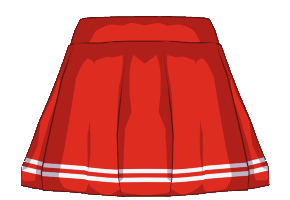
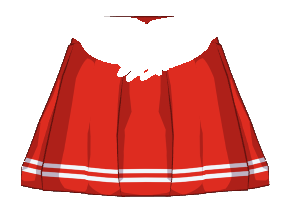
More

Changed region(s): [[0.2483, 0.06, 0.7448, 0.42]]

diff --git a/BondageClub/Assets/Female3DCG/Female3DCG.js b/BondageClub/Assets/Female3DCG/Female3DCG.js
@@ -31,29 +31,36 @@ var AssetFemale3DCG = [
 		AllowPose: ["TapedHands", "BackBoxTie", "BackCuffs", "BackElbowTouch", "Bolero", "Yoked", "Hogtied"],
 		Color: ["Default", "#202020", "#808080", "#bbbbbb", "#aa8080", "#80aa80", "#8080aa", "#aaaa80", "#80aaaa", "#aa80aa", "#cc3333", "#33cc33", "#3333cc", "#cccc33", "#33cccc", "#cc33cc"],
 		Asset: [
-			{ Name: "CollegeOutfit1", HideItem: ["ClothLowerLatexSkirt1", "ClothLowerLatexSkirt2", "ClothLowerSkirt1", "ClothLowerTennisSkirt1", "ClothLowerClothSkirt1", "ItemNipplesPiercingsRoundPiercing", "ItemNipplesPiercingsWeightedPiercing"], Hide: ["ItemNeck", "ItemBondageCloth"], Value: -1 },
-			{ Name: "MaidOutfit1", HideItem: ["ClothLowerLatexSkirt1", "ClothLowerLatexSkirt2", "ClothLowerSkirt1", "ClothLowerTennisSkirt1", "ClothLowerClothSkirt1", "ItemNipplesPiercingsRoundPiercing", "ItemNipplesPiercingsWeightedPiercing"], Hide: ["ItemBondageCloth"], Value: -1 },
-			{ Name: "MaidOutfit2", HideItem: ["ClothLowerLatexSkirt1", "ClothLowerLatexSkirt2", "ClothLowerSkirt1", "ClothLowerTennisSkirt1", "ClothLowerClothSkirt1"], Value: -1, Expose: ["ItemNipples", "ItemNipplesPiercings", "ItemBreast"], Hide: ["ItemBondageCloth"] },
-			{ Name: "StudentOutfit1", HideItem: ["ClothLowerLatexSkirt1", "ClothLowerLatexSkirt2", "ClothLowerSkirt1", "ClothLowerTennisSkirt1", "ClothLowerClothSkirt1", "ItemNipplesPiercingsRoundPiercing", "ItemNipplesPiercingsWeightedPiercing"], Hide: ["ItemNeck", "ItemBondageCloth"] },
-			{ Name: "StudentOutfit2", HideItem: ["ItemArmsLeatherCuffs", "ItemArmsOrnateCuffs", "ClothLowerLatexSkirt1", "ClothLowerLatexSkirt2", "ClothLowerSkirt1", "ClothLowerTennisSkirt1", "ClothLowerClothSkirt1", "ItemNipplesPiercingsRoundPiercing", "ItemNipplesPiercingsWeightedPiercing"], Hide: ["ItemBondageCloth"] },
+			{ Name: "CollegeOutfit1", HideItem: ["ClothLowerLatexSkirt1", "ClothLowerLatexSkirt2", "ClothLowerSkirt1", "ClothLowerSkirt2", "ClothLowerSkirt3", "ClothLowerTennisSkirt1", "ClothLowerClothSkirt1", "ItemNipplesPiercingsRoundPiercing", "ItemNipplesPiercingsWeightedPiercing"], Hide: ["ItemNeck", "ItemBondageCloth"], Value: -1 },
+			{ Name: "MaidOutfit1", HideItem: ["ClothLowerLatexSkirt1", "ClothLowerLatexSkirt2", "ClothLowerSkirt1", "ClothLowerSkirt2", "ClothLowerSkirt3", "ClothLowerTennisSkirt1", "ClothLowerClothSkirt1", "ItemNipplesPiercingsRoundPiercing", "ItemNipplesPiercingsWeightedPiercing"], Hide: ["ItemBondageCloth"], Value: -1 },
+			{ Name: "MaidOutfit2", HideItem: ["ClothLowerLatexSkirt1", "ClothLowerLatexSkirt2", "ClothLowerSkirt1", "ClothLowerSkirt2", "ClothLowerSkirt3", "ClothLowerTennisSkirt1", "ClothLowerClothSkirt1"], Value: -1, Expose: ["ItemNipples", "ItemNipplesPiercings", "ItemBreast"], Hide: ["ItemBondageCloth"] },
+			{ Name: "StudentOutfit1", HideItem: ["ClothLowerLatexSkirt1", "ClothLowerLatexSkirt2", "ClothLowerSkirt1", "ClothLowerSkirt2", "ClothLowerSkirt3", "ClothLowerTennisSkirt1", "ClothLowerClothSkirt1", "ItemNipplesPiercingsRoundPiercing", "ItemNipplesPiercingsWeightedPiercing"], Hide: ["ItemNeck", "ItemBondageCloth"] },
+			{ Name: "StudentOutfit2", HideItem: ["ItemArmsLeatherCuffs", "ItemArmsOrnateCuffs", "ClothLowerLatexSkirt1", "ClothLowerLatexSkirt2", "ClothLowerSkirt1", "ClothLowerSkirt2", "ClothLowerSkirt3", "ClothLowerTennisSkirt1", "ClothLowerClothSkirt1", "ItemNipplesPiercingsRoundPiercing", "ItemNipplesPiercingsWeightedPiercing"], Hide: ["ItemBondageCloth"] },
+			{
+			    Name: "StudentOutfit3", Require: ["ClothLower", "ClothAccessory"], HideItem: ["ItemNipplesPiercingsRoundPiercing", "ItemNipplesPiercingsWeightedPiercing"],
+				Layer: [
+					{ Name: "White", AllowColorize: false },
+					{ Name: "Color", AllowColorize: true }
+				]
+			},
 			{ Name: "BabydollDress1", HideItem: ["ClothLowerLatexSkirt1", "ItemNipplesPiercingsRoundPiercing", "ItemNipplesPiercingsWeightedPiercing"], Hide: ["ItemBondageCloth"] },
-			{ Name: "TeacherOutfit1", Hide: ["ItemNeck", "ItemBondageCloth"], HideItem: ["ItemArmsLeatherCuffs", "ItemArmsOrnateCuffs", "ClothLowerLatexSkirt1", "ClothLowerSkirt1", "ClothLowerTennisSkirt1", "ClothLowerClothSkirt1", "ItemNipplesPiercingsRoundPiercing", "ItemNipplesPiercingsWeightedPiercing"], ParentGroup: ["BodyLower"], AllowPose: ["Horse", "KneelingSpread", "BackBoxTie", "BackCuffs", "BackElbowTouch", "Bolero"] },
-			{ Name: "ChineseDress1", HideItem: ["ClothLowerLatexSkirt1", "ClothLowerLatexSkirt2", "ClothLowerSkirt1", "ClothLowerTennisSkirt1", "ClothLowerClothSkirt1", "ItemNipplesPiercingsRoundPiercing", "ItemNipplesPiercingsWeightedPiercing"], Hide: ["ItemBondageCloth"] },
+			{ Name: "TeacherOutfit1", Hide: ["ItemNeck", "ItemBondageCloth"], HideItem: ["ItemArmsLeatherCuffs", "ItemArmsOrnateCuffs", "ClothLowerLatexSkirt1", "ClothLowerSkirt1", "ClothLowerSkirt2", "ClothLowerSkirt3", "ClothLowerTennisSkirt1", "ClothLowerClothSkirt1", "ItemNipplesPiercingsRoundPiercing", "ItemNipplesPiercingsWeightedPiercing"], ParentGroup: ["BodyLower"], AllowPose: ["Horse", "KneelingSpread", "BackBoxTie", "BackCuffs", "BackElbowTouch", "Bolero"] },
+			{ Name: "ChineseDress1", HideItem: ["ClothLowerLatexSkirt1", "ClothLowerLatexSkirt2", "ClothLowerSkirt1", "ClothLowerSkirt2", "ClothLowerSkirt3", "ClothLowerTennisSkirt1", "ClothLowerClothSkirt1", "ItemNipplesPiercingsRoundPiercing", "ItemNipplesPiercingsWeightedPiercing"], Hide: ["ItemBondageCloth"] },
 			{ Name: "ChineseDress2", Value: 60, HideItem: ["ItemNipplesPiercingsRoundPiercing", "ItemNipplesPiercingsWeightedPiercing"], Hide: ["ItemBondageCloth"] },
-			{ Name: "TShirt1", Require: ["ClothLower"], HideItem: ["ItemNipplesPiercingsRoundPiercing", "ItemNipplesPiercingsWeightedPiercing"], Hide: ["ItemBondageCloth"] },
-			{ Name: "TennisShirt1", Require: ["ClothLower"], HideItem: ["ItemNipplesPiercingsRoundPiercing", "ItemNipplesPiercingsWeightedPiercing"], Hide: ["ItemBondageCloth"] },
+			{ Name: "TShirt1", Require: ["ClothLower"], HideItem: ["ItemNipplesPiercingsRoundPiercing", "ItemNipplesPiercingsWeightedPiercing"] },
+			{ Name: "TennisShirt1", Require: ["ClothLower"], HideItem: ["ItemNipplesPiercingsRoundPiercing", "ItemNipplesPiercingsWeightedPiercing"] },
 			{ Name: "Sweater1", Require: ["ClothLower"], HideItem: ["ItemArmsLeatherCuffs", "ItemArmsOrnateCuffs", "ItemNipplesPiercingsRoundPiercing", "ItemNipplesPiercingsWeightedPiercing"], Hide: ["ItemBondageCloth"] },
 			{ Name: "MistressTop", Require: ["ClothLower"], Hide: ["Bra", "ItemBondageCloth"], HideItem: ["ItemNipplesPiercingsRoundPiercing", "ItemNipplesPiercingsWeightedPiercing"], Value: -1 },
-			{ Name: "AdultBabyDress1", HideItem: ["ClothLowerLatexSkirt1", "ClothLowerLatexSkirt2", "ClothLowerSkirt1", "ClothLowerTennisSkirt1", "ClothLowerClothSkirt1", "ItemNipplesPiercingsRoundPiercing", "ItemNipplesPiercingsWeightedPiercing"], Hide: ["ItemBondageCloth"], BuyGroup: "ABDLDress1", Value: 60 },
-			{ Name: "AdultBabyDress2", HideItem: ["ClothLowerLatexSkirt1", "ClothLowerLatexSkirt2", "ClothLowerSkirt1", "ClothLowerTennisSkirt1", "ClothLowerClothSkirt1", "ItemNipplesPiercingsRoundPiercing", "ItemNipplesPiercingsWeightedPiercing"], Hide: ["ItemBondageCloth"], BuyGroup: "ABDLDress2", Value: 80 },
-			{ Name: "AdultBabyDress3", HideItem: ["ClothLowerLatexSkirt1", "ClothLowerLatexSkirt2", "ClothLowerSkirt1", "ClothLowerTennisSkirt1", "ClothLowerClothSkirt1", "ItemNipplesPiercingsRoundPiercing", "ItemNipplesPiercingsWeightedPiercing"], Hide: ["ItemBondageCloth"], BuyGroup: "ABDLDress3", Value: 40 },
-			{ Name: "NurseUniform", HideItem: ["ClothLowerLatexSkirt1", "ClothLowerLatexSkirt2", "ClothLowerSkirt1", "ClothLowerTennisSkirt1", "ClothLowerClothSkirt1", "ItemNipplesPiercingsRoundPiercing", "ItemNipplesPiercingsWeightedPiercing"], Hide: ["ItemBondageCloth"], Value: -1 },
+			{ Name: "AdultBabyDress1", HideItem: ["ClothLowerLatexSkirt1", "ClothLowerLatexSkirt2", "ClothLowerSkirt1", "ClothLowerSkirt2", "ClothLowerSkirt3", "ClothLowerTennisSkirt1", "ClothLowerClothSkirt1", "ItemNipplesPiercingsRoundPiercing", "ItemNipplesPiercingsWeightedPiercing"], Hide: ["ItemBondageCloth"], BuyGroup: "ABDLDress1", Value: 60 },
+			{ Name: "AdultBabyDress2", HideItem: ["ClothLowerLatexSkirt1", "ClothLowerLatexSkirt2", "ClothLowerSkirt1", "ClothLowerSkirt2", "ClothLowerSkirt3", "ClothLowerTennisSkirt1", "ClothLowerClothSkirt1", "ItemNipplesPiercingsRoundPiercing", "ItemNipplesPiercingsWeightedPiercing"], Hide: ["ItemBondageCloth"], BuyGroup: "ABDLDress2", Value: 80 },
+			{ Name: "AdultBabyDress3", HideItem: ["ClothLowerLatexSkirt1", "ClothLowerLatexSkirt2", "ClothLowerSkirt1", "ClothLowerSkirt2", "ClothLowerSkirt3", "ClothLowerTennisSkirt1", "ClothLowerClothSkirt1", "ItemNipplesPiercingsRoundPiercing", "ItemNipplesPiercingsWeightedPiercing"], Hide: ["ItemBondageCloth"], BuyGroup: "ABDLDress3", Value: 40 },
+			{ Name: "NurseUniform", HideItem: ["ClothLowerLatexSkirt1", "ClothLowerLatexSkirt2", "ClothLowerSkirt1", "ClothLowerSkirt2", "ClothLowerSkirt3", "ClothLowerTennisSkirt1", "ClothLowerClothSkirt1", "ItemNipplesPiercingsRoundPiercing", "ItemNipplesPiercingsWeightedPiercing"], Hide: ["ItemBondageCloth"], Value: -1 },
 			{ Name: "BunnyCollarCuffs", Value: 10, Expose: ["ItemNipples", "ItemNipplesPiercings", "ItemBreast", "ItemTorso"] },
 			{ Name: "Robe1", Value: 30, HideItem: ["ClothLowerLatexSkirt1", "ItemNipplesPiercingsRoundPiercing", "ItemNipplesPiercingsWeightedPiercing", "ItemArmsLeatherCuffs", "ItemArmsOrnateCuffs"], Hide: ["ItemBondageCloth"] },
 			{ Name: "SuspenderTop1", Priority: 25, Value: 50, Expose: ["ItemNipples","ItemNipplesPiercings", "ItemBreast"], Hide: ["Panties", "ItemVulva", "ItemVulvaPiercings"] },
 			{ Name: "LeatherCorsetTop1", Priority: 25, Value: 60, HideItem: ["ItemNipplesPiercingsRoundPiercing", "ItemNipplesPiercingsWeightedPiercing"] },
 			{
-			    Name: "FlowerDress", Value: 50, HideItem: ["ClothLowerLatexSkirt1", "ClothLowerLatexSkirt2", "ClothLowerSkirt1", "ClothLowerTennisSkirt1", "ClothLowerClothSkirt1", "ItemNipplesPiercingsRoundPiercing", "ItemNipplesPiercingsWeightedPiercing"], Hide: ["ItemBondageCloth"],
+			    Name: "FlowerDress", Value: 50, HideItem: ["ClothLowerLatexSkirt1", "ClothLowerLatexSkirt2", "ClothLowerSkirt1", "ClothLowerSkirt2", "ClothLowerSkirt3", "ClothLowerTennisSkirt1", "ClothLowerClothSkirt1", "ItemNipplesPiercingsRoundPiercing", "ItemNipplesPiercingsWeightedPiercing"], Hide: ["ItemBondageCloth"],
 				Layer: [
 					{ Name: "Dress", AllowColorize: true },
 					{ Name: "Flower", AllowColorize: false }
@@ -63,14 +70,14 @@ var AssetFemale3DCG = [
 			{ Name: "LaceBabydoll", Value: 40, HideItem: ["ItemNipplesPiercingsRoundPiercing", "ItemNipplesPiercingsWeightedPiercing"] },
 			{ Name: "SleevelessTop", Value: 20, HideItem: ["ItemNipplesPiercingsRoundPiercing", "ItemNipplesPiercingsWeightedPiercing"] },
 			{
-				Name: "DressFur", Value: 70, HideItem: ["ClothLowerLatexSkirt1", "ClothLowerLatexSkirt2", "ClothLowerSkirt1", "ClothLowerTennisSkirt1", "ClothLowerClothSkirt1", "ItemNipplesPiercingsRoundPiercing", "ItemNipplesPiercingsWeightedPiercing"], Hide: ["ItemBondageCloth"],
+				Name: "DressFur", Value: 70, HideItem: ["ClothLowerLatexSkirt1", "ClothLowerLatexSkirt2", "ClothLowerSkirt1", "ClothLowerSkirt2", "ClothLowerSkirt3", "ClothLowerTennisSkirt1", "ClothLowerClothSkirt1", "ItemNipplesPiercingsRoundPiercing", "ItemNipplesPiercingsWeightedPiercing"], Hide: ["ItemBondageCloth"],
 				Layer: [
 					{ Name: "Fabric", AllowColorize: true },
 					{ Name: "Fur", AllowColorize: false }
 				]
 			},
-			{ Name: "BodyTowel1", Value: 30, HideItem: ["ClothLowerLatexSkirt1", "ClothLowerLatexSkirt2", "ClothLowerSkirt1", "ClothLowerTennisSkirt1", "ClothLowerClothSkirt1", "ItemNipplesPiercingsRoundPiercing", "ItemNipplesPiercingsWeightedPiercing"] },
-			{ Name: "Yukata1", Value: 50, HideItem: ["ClothLowerLatexSkirt1", "ClothLowerLatexSkirt2", "ClothLowerSkirt1", "ClothLowerTennisSkirt1", "ClothLowerClothSkirt1", "ItemNipplesPiercingsRoundPiercing", "ItemNipplesPiercingsWeightedPiercing", "ItemArmsLeatherCuffs", "ItemArmsOrnateCuffs"], Hide: ["ItemBondageCloth"] },
+			{ Name: "BodyTowel1", Value: 30, HideItem: ["ClothLowerLatexSkirt1", "ClothLowerLatexSkirt2", "ClothLowerSkirt1", "ClothLowerSkirt2", "ClothLowerSkirt3", "ClothLowerTennisSkirt1", "ClothLowerClothSkirt1", "ItemNipplesPiercingsRoundPiercing", "ItemNipplesPiercingsWeightedPiercing"] },
+			{ Name: "Yukata1", Value: 50, HideItem: ["ClothLowerLatexSkirt1", "ClothLowerLatexSkirt2", "ClothLowerSkirt1", "ClothLowerSkirt2", "ClothLowerSkirt3", "ClothLowerTennisSkirt1", "ClothLowerClothSkirt1", "ItemNipplesPiercingsRoundPiercing", "ItemNipplesPiercingsWeightedPiercing", "ItemArmsLeatherCuffs", "ItemArmsOrnateCuffs"], Hide: ["ItemBondageCloth"] },
 			{ Name: "SteampunkCorsetTop1", Priority: 25, Value: 70, HideItem: ["ClothLowerTennisSkirt1", "ItemNipplesPiercingsRoundPiercing", "ItemNipplesPiercingsWeightedPiercing"] },
 			{ Name: "BondageDress1", Value: 90, Hide: ["ClothLower"], HideItem: ["ItemNipplesPiercingsRoundPiercing", "ItemNipplesPiercingsWeightedPiercing"], Hide: ["ItemBondageCloth"] },
 			{ Name: "BondageDress2", Value: 90, Hide: ["ClothLower"], HideItem: ["ItemNipplesPiercingsRoundPiercing", "ItemNipplesPiercingsWeightedPiercing"], Hide: ["ItemBondageCloth"] },
@@ -92,14 +99,14 @@ var AssetFemale3DCG = [
 		Asset: [
 			{ Name: "Skirt1", Expose: ["ItemVulva", "ItemVulvaPiercings", "ItemButt"] },
 			{ 
-				Name: "Skirt2", Expose: ["ItemVulva", "ItemVulvaPiercings", "ItemButt"],
+				Name: "Skirt2", ParentItem: "StudentOutfit3", Expose: ["ItemVulva", "ItemVulvaPiercings", "ItemButt"], AllowPose: ["TapedHands", "BackBoxTie", "BackCuffs", "BackElbowTouch", "Bolero", "Yoked"],
 				Layer: [
 					{ Name: "Color", AllowColorize: true },
 					{ Name: "Stripe", AllowColorize: false }
 				]
 			},
 			{ 
-				Name: "Skirt3", Expose: ["ItemVulva", "ItemVulvaPiercings", "ItemButt"],
+				Name: "Skirt3", ParentItem: "StudentOutfit3", Expose: ["ItemVulva", "ItemVulvaPiercings", "ItemButt"], AllowPose: ["TapedHands", "BackBoxTie", "BackCuffs", "BackElbowTouch", "Bolero", "Yoked"],
 				Layer: [
 					{ Name: "Color", AllowColorize: true },
 					{ Name: "Stripe", AllowColorize: false }
@@ -118,6 +125,23 @@ var AssetFemale3DCG = [
 			{ Name: "LatexSkirt2", Priority: 26, Value: 60, Expose: ["ItemVulva", "ItemVulvaPiercings", "ItemButt"] },
 			{ Name: "ClothSkirt1", Priority: 26, Value: 40, Expose: ["ItemVulva", "ItemVulvaPiercings", "ItemButt"] },
 			{ Name: "Jeans2", Priority: 22, Hide: ["ItemVulvaPiercings"], HideItem: ["SocksSocksFur", "SocksSocks6", "VibratingLatexPanties", "WandBelt", "VibratingDildo", "InflatableVibeDildo", "ClitSuctionCup", "TapeStrips", "BenWaBalls", "HeavyWeightClamp"], Value: 20 }
+		]
+	},
+
+	{
+		Group: "ClothAccessory",
+		Priority: 32,
+		Default: false,
+		Occasionally: false,
+		Clothing: true,
+		Color: ["Default", "#202020", "#808080", "#bbbbbb", "#aa8080", "#80aa80", "#8080aa", "#aaaa80", "#80aaaa", "#aa80aa", "#cc3333", "#33cc33", "#3333cc", "#cccc33", "#33cccc", "#cc33cc"],
+		Left: 200,
+		Top: 250,
+		Asset: [
+			{ Name: "StudentOutfit3Scarf" },
+			{ Name: "StudentOutfit3Bow1" },
+			{ Name: "StudentOutfit3Bow2" },
+			{ Name: "StudentOutfit3Bow3" }
 		]
 	},
 
@@ -1013,11 +1037,11 @@ var AssetFemale3DCG = [
 		Color: ["Default"],
 		Zone: [[250, 340, 100, 80]],
 		Asset: [
-			{ Name: "MaidOutfit1", AllowLock: true, Time: 20, Difficulty: 50, Prerequisite: "AccessTorso", HideItem: ["ClothMistressTop", "ClothSuspenderTop1", "ClothLeatherCorsetTop1", "ClothSleevelessTop", "ClothBodyTowel1", "ClothSteampunkCorsetTop1", "ClothShoulderlessTop", "ClothLowerLatexSkirt1", "ClothLowerLatexSkirt2", "ClothLowerSkirt1", "ClothLowerTennisSkirt1", "ClothLowerClothSkirt1", "ItemNipplesPiercingsRoundPiercing", "ItemNipplesPiercingsWeightedPiercing"], Value: -1 },
-			{ Name: "MaidOutfit2", AllowLock: true, Time: 20, Difficulty: 50, Prerequisite: "AccessTorso", HideItem: ["ClothMistressTop", "ClothSuspenderTop1", "ClothLeatherCorsetTop1", "ClothSleevelessTop", "ClothBodyTowel1", "ClothSteampunkCorsetTop1", "ClothShoulderlessTop", "ClothLowerLatexSkirt1", "ClothLowerLatexSkirt2", "ClothLowerSkirt1", "ClothLowerTennisSkirt1", "ClothLowerClothSkirt1"], Value: -1, Expose: ["ItemNipples", "ItemNipplesPiercings", "ItemBreast"] },
-			{ Name: "AdultBabyDress1", AllowLock: true, Time: 20, Difficulty: 50, Prerequisite: "AccessTorso", HideItem: ["ClothMistressTop", "ClothSuspenderTop1", "ClothLeatherCorsetTop1", "ClothSleevelessTop", "ClothBodyTowel1", "ClothSteampunkCorsetTop1", "ClothShoulderlessTop", "ClothLowerLatexSkirt1", "ClothLowerLatexSkirt2", "ClothLowerSkirt1", "ClothLowerTennisSkirt1", "ClothLowerClothSkirt1", "ItemNipplesPiercingsRoundPiercing", "ItemNipplesPiercingsWeightedPiercing"], BuyGroup: "ABDLDress1", Value: 60 },
-			{ Name: "AdultBabyDress2", AllowLock: true, Time: 20, Difficulty: 50, Prerequisite: "AccessTorso", HideItem: ["ClothMistressTop", "ClothSuspenderTop1", "ClothLeatherCorsetTop1", "ClothSleevelessTop", "ClothBodyTowel1", "ClothSteampunkCorsetTop1", "ClothShoulderlessTop", "ClothLowerLatexSkirt1", "ClothLowerLatexSkirt2", "ClothLowerSkirt1", "ClothLowerTennisSkirt1", "ClothLowerClothSkirt1", "ItemNipplesPiercingsRoundPiercing", "ItemNipplesPiercingsWeightedPiercing"], BuyGroup: "ABDLDress2", Value: 80 },
-			{ Name: "AdultBabyDress3", AllowLock: true, Time: 20, Difficulty: 50, Prerequisite: "AccessTorso", HideItem: ["ClothMistressTop", "ClothSuspenderTop1", "ClothLeatherCorsetTop1", "ClothSleevelessTop", "ClothBodyTowel1", "ClothSteampunkCorsetTop1", "ClothShoulderlessTop", "ClothLowerLatexSkirt1", "ClothLowerLatexSkirt2", "ClothLowerSkirt1", "ClothLowerTennisSkirt1", "ClothLowerClothSkirt1", "ItemNipplesPiercingsRoundPiercing", "ItemNipplesPiercingsWeightedPiercing"], BuyGroup: "ABDLDress3", Value: 40 }
+			{ Name: "MaidOutfit1", AllowLock: true, Time: 20, Difficulty: 50, HideItem: ["ClothTShirt1", "ClothTennisShirt1", "ClothMistressTop", "ClothSuspenderTop1", "ClothLeatherCorsetTop1", "ClothSleevelessTop", "ClothBodyTowel1", "ClothSteampunkCorsetTop1", "ClothShoulderlessTop", "ClothLowerLatexSkirt1", "ClothLowerLatexSkirt2", "ClothLowerSkirt1", "ClothLowerSkirt2", "ClothLowerSkirt3", "ClothLowerTennisSkirt1", "ClothLowerClothSkirt1", "ItemNipplesPiercingsRoundPiercing", "ItemNipplesPiercingsWeightedPiercing"], Value: -1 },
+			{ Name: "MaidOutfit2", AllowLock: true, Time: 20, Difficulty: 50, HideItem: ["ClothTShirt1", "ClothTennisShirt1", "ClothMistressTop", "ClothSuspenderTop1", "ClothLeatherCorsetTop1", "ClothSleevelessTop", "ClothBodyTowel1", "ClothSteampunkCorsetTop1", "ClothShoulderlessTop", "ClothLowerLatexSkirt1", "ClothLowerLatexSkirt2", "ClothLowerSkirt1", "ClothLowerSkirt2", "ClothLowerSkirt3", "ClothLowerTennisSkirt1", "ClothLowerClothSkirt1"], Value: -1, Expose: ["ItemNipples", "ItemNipplesPiercings", "ItemBreast"] },
+			{ Name: "AdultBabyDress1", AllowLock: true, Time: 20, Difficulty: 50, HideItem: ["ClothTShirt1", "ClothTennisShirt1", "ClothMistressTop", "ClothSuspenderTop1", "ClothLeatherCorsetTop1", "ClothSleevelessTop", "ClothBodyTowel1", "ClothSteampunkCorsetTop1", "ClothShoulderlessTop", "ClothLowerLatexSkirt1", "ClothLowerLatexSkirt2", "ClothLowerSkirt1", "ClothLowerSkirt2", "ClothLowerSkirt3", "ClothLowerTennisSkirt1", "ClothLowerClothSkirt1", "ItemNipplesPiercingsRoundPiercing", "ItemNipplesPiercingsWeightedPiercing"], BuyGroup: "ABDLDress1", Value: 60 },
+			{ Name: "AdultBabyDress2", AllowLock: true, Time: 20, Difficulty: 50, HideItem: ["ClothTShirt1", "ClothTennisShirt1", "ClothMistressTop", "ClothSuspenderTop1", "ClothLeatherCorsetTop1", "ClothSleevelessTop", "ClothBodyTowel1", "ClothSteampunkCorsetTop1", "ClothShoulderlessTop", "ClothLowerLatexSkirt1", "ClothLowerLatexSkirt2", "ClothLowerSkirt1", "ClothLowerSkirt2", "ClothLowerSkirt3", "ClothLowerTennisSkirt1", "ClothLowerClothSkirt1", "ItemNipplesPiercingsRoundPiercing", "ItemNipplesPiercingsWeightedPiercing"], BuyGroup: "ABDLDress2", Value: 80 },
+			{ Name: "AdultBabyDress3", AllowLock: true, Time: 20, Difficulty: 50, HideItem: ["ClothTShirt1", "ClothTennisShirt1", "ClothMistressTop", "ClothSuspenderTop1", "ClothLeatherCorsetTop1", "ClothSleevelessTop", "ClothBodyTowel1", "ClothSteampunkCorsetTop1", "ClothShoulderlessTop", "ClothLowerLatexSkirt1", "ClothLowerLatexSkirt2", "ClothLowerSkirt1", "ClothLowerSkirt2", "ClothLowerSkirt3", "ClothLowerTennisSkirt1", "ClothLowerClothSkirt1", "ItemNipplesPiercingsRoundPiercing", "ItemNipplesPiercingsWeightedPiercing"], BuyGroup: "ABDLDress3", Value: 40 }
 		]
 	},
 
@@ -1051,9 +1075,9 @@ var AssetFemale3DCG = [
 			{ Name: "Manacles", Random: false, Value: 120, AllowLock: true, SelfBondage: false, Difficulty: 16, SetPose: ["BackBoxTie", "Kneel"], Effect: ["Block", "Freeze", "Prone", "ForceKneel"], Time: 30, Prerequisite: ["NoItemFeet", "NotMounted", "NotSuspended", "NotHogtied", "NotKneelingSpread"], Block: ["ItemFeet"] },
 			{ Name: "FullBodyShackles", Random: false, Value: 150, AllowLock: true, Difficulty: 18, AllowPose: ["LegsClosed", "Kneel"], Effect: ["Prone", "Shackled"], Prerequisite: ["NoItemFeet", "NotMounted", "NotSuspended", "NotHogtied", "NotKneelingSpread"], Block: ["ItemFeet"]},
 			{ Name: "WristShackles", Random: false, Value: 80, AllowPose: ["BackCuffs"], Time: 20, Difficulty: 6, Extended: true, AllowLock: true, AllowEffect: ["Block", "Prone"], Effect: ["Prone"], AllowType: ["Behind"] },
-			{ Name: "StraitLeotard", DefaultColor: "#70C0C0", SelfBondage: false, SelfUnlock: false, Value: 120, SetPose: ["BackElbowTouch"], Hide: ["Cloth", "ItemNipplesPiercings"], HideItem: ["ClothLowerSkirt1", "ClothLowerTennisSkirt1", "ItemVulvaVibratingDildo", "ItemVulvaInflatableVibeDildo", "ItemVulvaClitSuctionCup"], Block: ["ItemNipples", "ItemNipplesPiercings", "ItemVulva", "ItemVulvaPiercings", "ItemButt", "ItemPelvis", "ItemTorso", "ItemBreast", "ItemHands"], Effect: ["Block", "Prone"], Time: 35, RemoveTime: 20, Difficulty: 13, AllowLock: true },
-			{ Name: "StraitJacket", DefaultColor: "#A0A0A0", SelfBondage: false, SelfUnlock: false, Extended: true, Value: 150, SetPose: ["BackElbowTouch"], Hide: ["Cloth", "ItemNipplesPiercings"], HideItem: ["ClothLowerSkirt1", "ClothLowerTennisSkirt1"], Block: ["ItemNipples", "ItemNipplesPiercings", "ItemTorso", "ItemBreast", "ItemHands"], Effect: ["Block", "Prone"], Time: 35, RemoveTime: 20, Difficulty: 6, AllowLock: true },
-			{ Name: "LeatherStraitJacket", SelfBondage: false, SelfUnlock: false, Extended: true, Value: 200, SetPose: ["BackElbowTouch"], Hide: ["Cloth", "ItemNipplesPiercings"], HideItem: ["ClothLowerSkirt1", "ClothLowerTennisSkirt1"], Block: ["ItemNipples", "ItemNipplesPiercings", "ItemTorso", "ItemBreast", "ItemHands"], Effect: ["Block", "Prone"], Time: 45, RemoveTime: 30, Difficulty: 7, AllowLock: true, AllowType: ["Normal", "Snug", "Tight"] },
+			{ Name: "StraitLeotard", DefaultColor: "#70C0C0", SelfBondage: false, SelfUnlock: false, Value: 120, SetPose: ["BackElbowTouch"], Hide: ["Cloth", "ItemNipplesPiercings"], HideItem: ["ClothLowerSkirt1", "ClothLowerSkirt2", "ClothLowerSkirt3", "ClothLowerTennisSkirt1", "ItemVulvaVibratingDildo", "ItemVulvaInflatableVibeDildo", "ItemVulvaClitSuctionCup"], Block: ["ItemNipples", "ItemNipplesPiercings", "ItemVulva", "ItemVulvaPiercings", "ItemButt", "ItemPelvis", "ItemTorso", "ItemBreast", "ItemHands"], Effect: ["Block", "Prone"], Time: 35, RemoveTime: 20, Difficulty: 13, AllowLock: true },
+			{ Name: "StraitJacket", DefaultColor: "#A0A0A0", SelfBondage: false, SelfUnlock: false, Extended: true, Value: 150, SetPose: ["BackElbowTouch"], Hide: ["Cloth", "ItemNipplesPiercings"], HideItem: ["ClothLowerSkirt1", "ClothLowerSkirt2", "ClothLowerTennisSkirt1"], Block: ["ItemNipples", "ItemNipplesPiercings", "ItemTorso", "ItemBreast", "ItemHands"], Effect: ["Block", "Prone"], Time: 35, RemoveTime: 20, Difficulty: 6, AllowLock: true },
+			{ Name: "LeatherStraitJacket", SelfBondage: false, SelfUnlock: false, Extended: true, Value: 200, SetPose: ["BackElbowTouch"], Hide: ["Cloth", "ItemNipplesPiercings"], HideItem: ["ClothLowerSkirt1", "ClothLowerSkirt2", "ClothLowerTennisSkirt1"], Block: ["ItemNipples", "ItemNipplesPiercings", "ItemTorso", "ItemBreast", "ItemHands"], Effect: ["Block", "Prone"], Time: 45, RemoveTime: 30, Difficulty: 7, AllowLock: true, AllowType: ["Normal", "Snug", "Tight"] },
 			{ 
 				Name: "Bolero", DefaultColor: "#E080A0", SelfBondage: false, SelfUnlock: false, Value: 100, SetPose: ["BackElbowTouch", "Bolero"], Block: ["ItemHands"], Effect: ["Block", "Prone"], Time: 35, RemoveTime: 20, Difficulty: 11, AllowLock: true,
 				Layer: [

diff --git a/BondageClub/Scripts/Inventory.js b/BondageClub/Scripts/Inventory.js
@@ -95,14 +95,15 @@ function InventoryPrerequisiteMessage(C, Prerequisite) {
 
 	// Checks for torso access based on clothes
 	var Cloth = InventoryGet(C, "Cloth");
-	if ((Prerequisite == "AccessTorso") && (Cloth != null) && !Cloth.Asset.Expose.includes("ItemTorso")) return "RemoveClothesForItem";
+	var BondageCloth = InventoryGet(C, "ItemBondageCloth");
+	if ((Prerequisite == "AccessTorso") && ((Cloth != null) && !Cloth.Asset.Expose.includes("ItemTorso") || (BondageCloth != null) && !BondageCloth.Asset.Expose.includes("ItemTorso"))) return "RemoveClothesForItem";
 
 	// Breast items can be blocked by clothes
-	if ((Prerequisite == "AccessBreast") && (((Cloth != null) && !Cloth.Asset.Expose.includes("ItemBreast"))
+	if ((Prerequisite == "AccessBreast") && ((((Cloth != null) && !Cloth.Asset.Expose.includes("ItemBreast") || (BondageCloth != null) && !BondageCloth.Asset.Expose.includes("ItemBreast")))
 			|| (InventoryGet(C, "Bra") != null && !InventoryGet(C, "Bra").Asset.Expose.includes("ItemBreast")))) return "RemoveClothesForItem";
 
 	// Vulva/Butt items can be blocked by clothes, panties and some socks
-	if ((Prerequisite == "AccessVulva") && (((Cloth != null) && Cloth.Asset.Block != null && Cloth.Asset.Block.includes("ItemVulva"))
+	if ((Prerequisite == "AccessVulva") && ((((Cloth != null) && Cloth.Asset.Block != null && Cloth.Asset.Block.includes("ItemVulva") || (BondageCloth != null) && BondageCloth.Asset.Block != null && BondageCloth.Asset.Block.includes("ItemVulva")))
 			|| (InventoryGet(C, "ClothLower") != null && !InventoryGet(C, "ClothLower").Asset.Expose.includes("ItemVulva"))
 			|| (InventoryGet(C, "Panties") != null && !InventoryGet(C, "Panties").Asset.Expose.includes("ItemVulva"))
 			|| (InventoryGet(C, "Socks") != null && (InventoryGet(C, "Socks").Asset.Block != null) && InventoryGet(C, "Socks").Asset.Block.includes("ItemVulva")))) return "RemoveClothesForItem";

diff --git a/BondageClub/Screens/Character/Appearance/Appearance.js b/BondageClub/Screens/Character/Appearance/Appearance.js
@@ -125,9 +125,9 @@ function CharacterAppearanceFullRandom(C, ClothOnly) {
 				A--;
 			}
 
-	// For each item group (non default items only show at a 20% rate)
+	// For each item group (non default items only show at a 20% rate, if it can occasionally happen)
 	for (var A = 0; A < AssetGroup.length; A++)
-		if ((AssetGroup[A].Category == "Appearance") && (AssetGroup[A].IsDefault || (Math.random() < 0.2) || CharacterAppearanceRequired(C, AssetGroup[A].Name)) && (!CharacterAppearanceMustHide(C, AssetGroup[A].Name) || !AssetGroup[A].AllowNone) && (CharacterAppearanceGetCurrentValue(C, AssetGroup[A].Name, "Name") == "None")) {
+		if ((AssetGroup[A].Category == "Appearance") && (AssetGroup[A].IsDefault || (AssetGroup[A].IsOccasional && Math.random() < 0.2) || CharacterAppearanceRequired(C, AssetGroup[A].Name)) && (!CharacterAppearanceMustHide(C, AssetGroup[A].Name) || !AssetGroup[A].AllowNone) && (CharacterAppearanceGetCurrentValue(C, AssetGroup[A].Name, "Name") == "None")) {
 
 			// Get the parent size
 			var ParentSize = "";

diff --git a/BondageClub/Scripts/Character.js b/BondageClub/Scripts/Character.js
@@ -152,6 +152,7 @@ function CharacterArchetypeClothes(C, Archetype, ForceColor) {
 		CharacterAppearanceSetItem(C, "Hat", C.Inventory[C.Inventory.length - 1].Asset);
 		CharacterAppearanceSetColorForGroup(C, "Default", "Hat");
 		InventoryAdd(C, "MaidOutfit2", "Cloth", false);
+		InventoryRemove(C, "ClothAccessory");
 		InventoryRemove(C, "HairAccessory1");
 		InventoryRemove(C, "HairAccessory2");
 		InventoryRemove(C, "ClothLower");
@@ -174,6 +175,7 @@ function CharacterArchetypeClothes(C, Archetype, ForceColor) {
 		InventoryAdd(C, "MistressPadlock", "ItemMisc", false);
 		InventoryAdd(C, "MistressTimerPadlock","ItemMisc", false);
 		InventoryAdd(C, "MistressPadlockKey", "ItemMisc", false);
+		InventoryRemove(C, "ClothAccessory");
 		InventoryRemove(C, "HairAccessory1");
 		InventoryRemove(C, "HairAccessory2");
 	}

diff --git a/BondageClub/Scripts/Asset.js b/BondageClub/Scripts/Asset.js
@@ -13,6 +13,7 @@ function AssetGroupAdd(NewAssetFamily, NewAsset) {
 		ParentGroupName: (NewAsset.ParentGroup == null) ? "" : NewAsset.ParentGroup,
 		Category: (NewAsset.Category == null) ? "Appearance" : NewAsset.Category,
 		IsDefault: (NewAsset.Default == null) ? true : NewAsset.Default,
+		IsOccasional: (NewAsset.Occasionally == null) ? true : NewAsset.Default,
 		IsRestraint: (NewAsset.IsRestraint == null) ? false : NewAsset.IsRestraint,
 		AllowNone: (NewAsset.AllowNone == null) ? true : NewAsset.AllowNone,
 		AllowColorize: (NewAsset.AllowColorize == null) ? true : NewAsset.AllowColorize,
